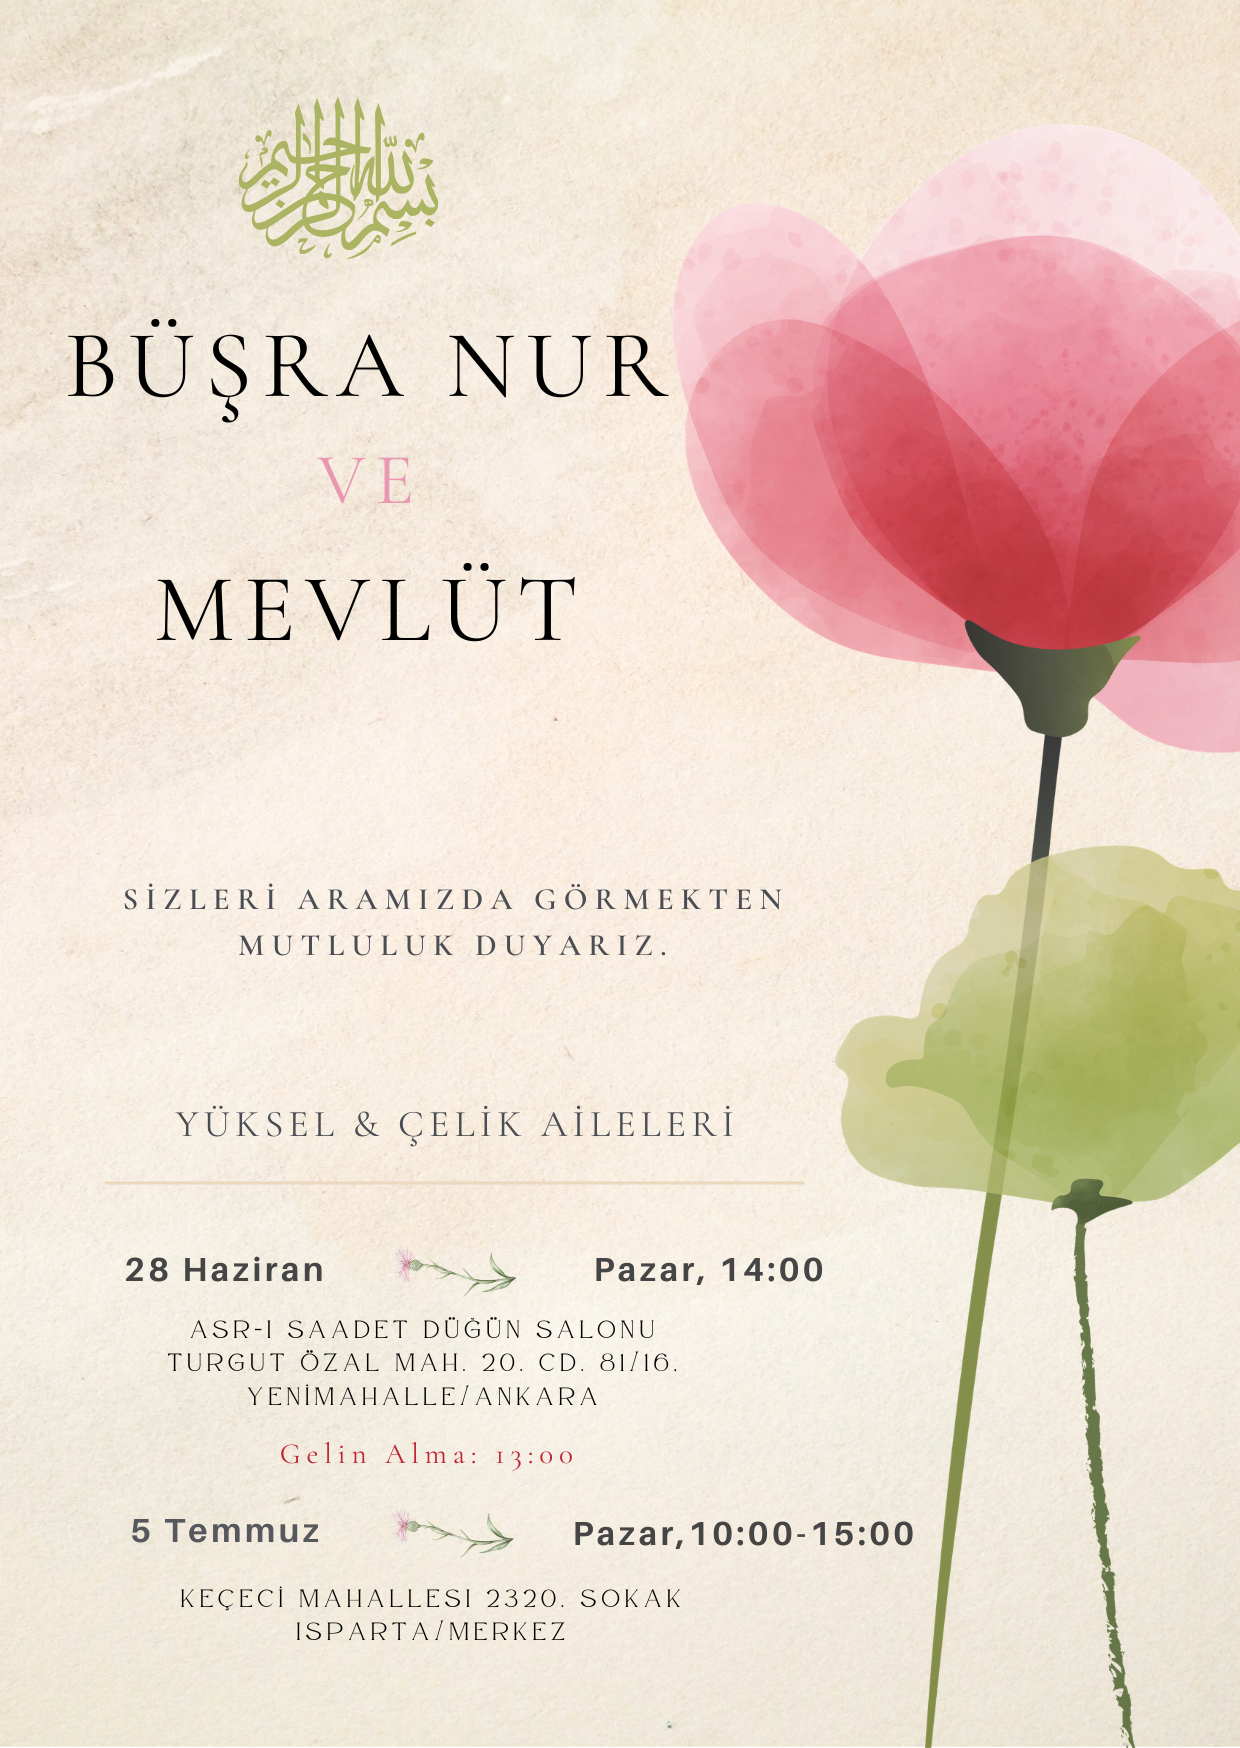
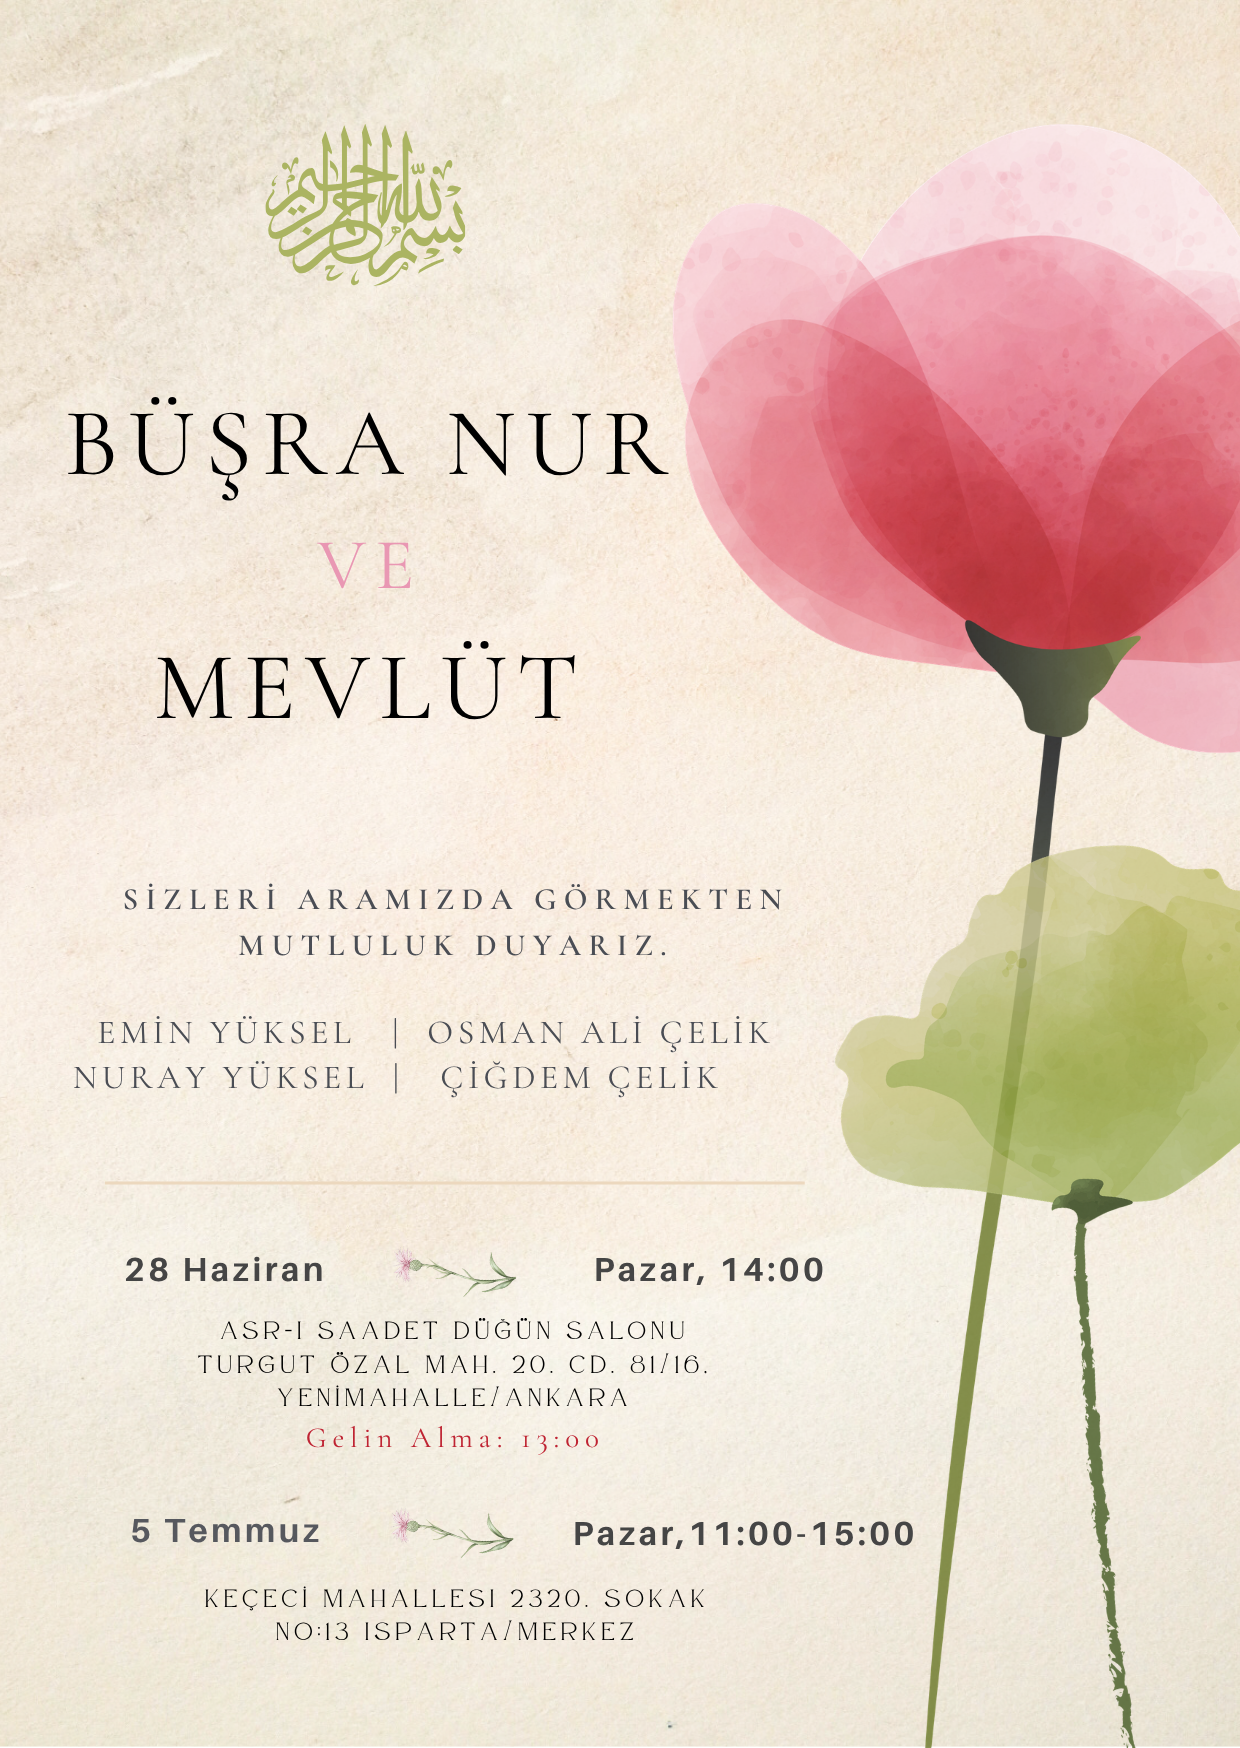
davetiye

diff --git a/davetiye/index.html b/davetiye/index.html
@@ -76,8 +76,26 @@
       }
 
       .subtitle {
-        margin: 0;
+        margin: 0.25rem 0;
         color: var(--muted);
+      }
+
+      .parents {
+        margin-top: 0.8rem;
+        font-size: 0.95rem;
+        line-height: 1.6;
+        color: var(--muted);
+      }
+
+      .venue {
+        font-weight: 600;
+        color: var(--text);
+      }
+
+      .note {
+        color: var(--rose);
+        font-size: 0.92rem;
+        font-weight: 600;
       }
 
       .content {
@@ -104,25 +122,18 @@
         padding: 1rem;
       }
 
-      .image-grid {
-        display: grid;
-        gap: 0.9rem;
-      }
-
-      @media (min-width: 760px) {
-        .image-grid {
-          grid-template-columns: repeat(2, minmax(0, 1fr));
-        }
-      }
-
       .invite-image {
         width: 100%;
-        height: 100%;
-        max-height: 620px;
-        object-fit: cover;
+        height: auto;
         border-radius: 12px;
         border: 1px solid #f0e0e0;
         box-shadow: 0 8px 20px rgba(70, 45, 45, 0.12);
+      }
+
+      .cover-image {
+        max-width: 420px;
+        margin: 0 auto;
+        display: block;
       }
 
       h2 {
@@ -201,34 +212,37 @@
     <main class="wrapper">
       <section class="invitation">
         <header class="hero">
-          <div class="label">Düğün Daveti</div>
+          <img
+            class="invite-image cover-image"
+            src="1.png"
+            alt="Büşra Nur ve Mevlüt düğün davetiyesi kapak görseli"
+          />
+          <div class="label" style="margin-top: 1.2rem">Düğün Daveti</div>
           <h1>Büşra Nur &amp; Mevlüt</h1>
-          <p class="subtitle">28 Haziran 2026 - Saat 14:00</p>
-          <p class="subtitle">Yüksel &amp; Çelik Aileleri</p>
+          <p class="subtitle">Sizleri aramızda görmekten mutluluk duyarız.</p>
+          <p class="subtitle">28 Haziran 2026 · 5 Temmuz 2026</p>
+          <div class="parents">
+            <div>Emin Yüksel &nbsp;|&nbsp; Osman Ali Çelik</div>
+            <div>Nuray Yüksel &nbsp;|&nbsp; Çiğdem Çelik</div>
+          </div>
         </header>
 
         <div class="content">
           <div class="card">
-            <h2>Davetiye Görseli</h2>
-            <p>Sizleri aramızda görmekten mutluluk duyarız.</p>
-            <div class="image-grid">
-              <img
-                class="invite-image"
-                src="1.png"
-                alt="Düğün davetiyesi kapak görseli"
-              />
-              <img
-                class="invite-image"
-                src="2.png"
-                alt="Düğün davetiyesi detay görseli"
-              />
-            </div>
+            <h2>Davetiyemiz</h2>
+            <img
+              class="invite-image"
+              src="2.png"
+              alt="Düğün davetiyesi detay görseli"
+            />
           </div>
 
           <div class="grid">
             <article class="card">
-              <h2>Düğün - Ankara</h2>
-              <p class="event-time">28 Haziran 2026 - Saat 14:00</p>
+              <h2>Düğün — Ankara</h2>
+              <p class="event-time">28 Haziran 2026, Pazar — 14:00</p>
+              <p class="note">Gelin Alma: 13:00</p>
+              <p class="venue">Asr-ı Saadet Düğün Salonu</p>
               <p class="address">
                 Turgut Özal Mah. 20. Cd. 81/16, Yenimahalle / Ankara
               </p>
@@ -243,17 +257,17 @@
                   class="btn"
                   target="_blank"
                   rel="noopener"
-                  href="https://www.google.com/maps/search/?api=1&query=Turgut+Özal+Mah.+20.+Cd.+81%2F16,+Yenimahalle,+Ankara"
+                  href="https://www.google.com/maps/search/?api=1&query=Asr-ı+Saadet+Düğün+Salonu,+Turgut+Özal+Mah.+20.+Cd.+81%2F16,+Yenimahalle,+Ankara"
                   >Haritada Aç</a
                 >
               </div>
             </article>
 
             <article class="card">
-              <h2>Yemek - Isparta</h2>
-              <p class="event-time">5 Temmuz 2026 - Saat 10:00</p>
+              <h2>Yemek — Isparta</h2>
+              <p class="event-time">5 Temmuz 2026, Pazar — 11:00 – 15:00</p>
               <p class="address">
-                Keçeci Mahallesi 2320. Sokak, Isparta / Merkez
+                Keçeci Mahallesi 2320. Sokak No:13, Isparta / Merkez
               </p>
               <div class="countdown" id="countdownDinner">
                 <div class="box"><strong id="dDays">0</strong>Gün</div>
@@ -266,7 +280,7 @@
                   class="btn"
                   target="_blank"
                   rel="noopener"
-                  href="https://www.google.com/maps/search/?api=1&query=Keçeci+Mahallesi+2320.+Sokak,+Isparta+Merkez"
+                  href="https://www.google.com/maps/search/?api=1&query=Keçeci+Mahallesi+2320.+Sokak+No+13,+Isparta+Merkez"
                   >Haritada Aç</a
                 >
               </div>
@@ -282,7 +296,7 @@
 
     <script>
       const weddingDate = new Date("2026-06-28T14:00:00+03:00");
-      const dinnerDate = new Date("2026-07-05T10:00:00+03:00");
+      const dinnerDate = new Date("2026-07-05T11:00:00+03:00");
 
       function setCountdown(prefix, containerId, targetDate, finishedText) {
         const now = new Date();
